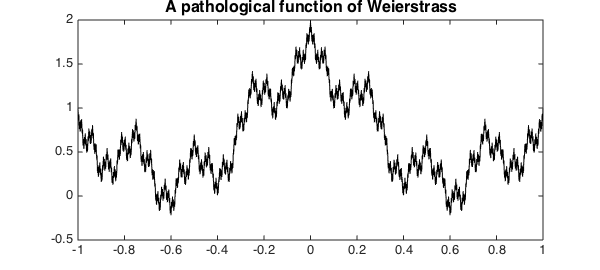
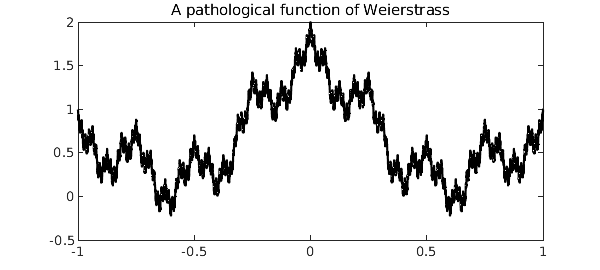
Weierstrass update

Changed region(s): [[0.09, 0.0, 0.93, 0.9481], [0.9, 0.9185, 0.93, 0.9481]]

diff --git a/examples/approx/img/WeierstrassFunction.html b/examples/approx/img/WeierstrassFunction.html
@@ -5,7 +5,7 @@ authordate: "Hrothgar, October 2013"
 meta: "(Chebfun example approx/WeierstrassFunction.m) [Tags: #Weierstrass, #approximation, #infinite series]"
 ---
 
-<pre class="mcode-input">LW = 'linewidth'; FS = 'fontsize'; format compact</pre>In the late nineteenth century, Karl Weierstrass rocked the analysis community when he constructed an example of a function that is everywhere continuous but nowhere differentiable. His now eponymous function, also one of the first appearances of fractal geometry, is defined as the sum $$ \sum_{k=0}^{\infty} a^k \cos(b^k \pi x), $$ where $0 &lt; a &lt; 1$ and $b$ is a positive odd integer with $ab &lt; 1 + \frac32 \pi$. Since its publication, Weierstrass' work has been generalized in many directions.
+<pre class="mcode-input">format compact</pre>In the late nineteenth century, Karl Weierstrass rocked the analysis community when he constructed an example of a function that is everywhere continuous but nowhere differentiable. His now eponymous function, also one of the first appearances of fractal geometry, is defined as the sum $$ \sum_{k=0}^{\infty} a^k \cos(b^k \pi x), $$ where $0 &lt; a &lt; 1$ and $b$ is a positive odd integer with $ab &lt; 1 + \frac32 \pi$. Since its publication, Weierstrass's work has been generalized in many directions.
 
 Chebfun is designed for work with functions with a bit of smoothness, but in this example we will see how Chebfun fares against a pathological function lying on the edge of discontinuity.
 
@@ -15,16 +15,15 @@ Let us consider the Weierstrass-type function $$ F(x) = \sum_{k=0}^{\infty} 2^{-
 F{1} = chebfun(f_k(0));
 for k = 1:8,
     F{k+1} = F{k} + chebfun(f_k(k));
-end</pre><pre class="mcode-output">Warning: Function not resolved using 65537 pts. Have you tried 'splitting on'? 
-</pre>Here is what the unresolved ninth iterate looks like.
+end</pre>Here is what the unresolved ninth iterate looks like.
 
-<pre class="mcode-input">plot(F{9}, 'k-', LW, 1)
-title('A pathological function of Weierstrass', FS, 16)</pre><img src="img/WeierstrassFunction_01.png" class="figure" alt="">
+<pre class="mcode-input">plot(F{9}, 'k')
+title('A pathological function of Weierstrass')</pre><img src="img/WeierstrassFunction_01.png" class="figure" alt="">
 
 We must zoom in 400 times to see that Chebfun is in fact plotting a smooth function.
 
-<pre class="mcode-input">plot(F{9}, 'k-', 'interval', [0 0.005], LW, 1)
-title('Close-up of Weierstrass approximant', FS, 16)</pre><img src="img/WeierstrassFunction_02.png" class="figure" alt="">
+<pre class="mcode-input">plot(F{9}, 'k', 'interval', [0 0.005])
+title('Close-up of Weierstrass approximant')</pre><img src="img/WeierstrassFunction_02.png" class="figure" alt="">
 
 The function $F(x)$ is not differentiable, but it is integrable. For this particular Weierstrass function, the exact value of the integral can be found easily. We begin with
 
@@ -43,7 +42,7 @@ However, $\sin( \frac{\pi}{2} 4^k ) = 0$ for all $k &gt; 0$, so the sum is equal
 Let's check our answer against Chebfun's.
 
 <pre class="mcode-input">error = sum(F{9}) - 4/pi</pre><pre class="mcode-output">error =
-     3.330669073875470e-15
+     1.998401444325282e-15
 </pre>A more difficult problem is to find the global minimum of $F(x)$ on the interval $[-1, 1]$. Even if it were possible to differentiate $F$ to find where $F'(x) = 0$, we would discover infinitely many local extrema. Of course, Chebfun's representation of $F$ is a polynomial approximant, so we can locate the roots of the derivative for any iterate. As we may expect, performance rapidly gets worse as we take more terms.
 
 <pre class="mcode-input">tt = []; xx = []; mm = [];
@@ -58,10 +57,10 @@ str = [sprintf('%2s %11s %16s %19s\n', 'k', 'x_min', 'F_k(x_min)', 'computation 
        sprintf('%2d %12.7f %+15.7f %11.2f sec\n', [(2:2:8); xx; mm; tt])];
 disp(str)</pre><pre class="mcode-output"> k       x_min       F_k(x_min)    computation time
 ----------------------------------------------------
- 2   -1.0000000      +0.0000000        0.10 sec
- 4   -0.6196232      -0.0504416        0.06 sec
- 6    0.6010220      -0.1761766        0.05 sec
- 8   -0.6000610      -0.2098447        1.91 sec
+ 2   -1.0000000      +0.0000000        0.02 sec
+ 4   -0.6196232      -0.0504416        0.02 sec
+ 6   -0.6010220      -0.1761766        0.03 sec
+ 8    0.6000610      -0.2098447        0.41 sec
 
 </pre>Chebfun is slowly converging to the actual solution given by $F_{min} = \sin(\frac{\pi}{5}) - \cos(\frac{\pi}{5}) = -0.2212317420...$ at the points $x = \pm \frac35$. Chebfun's difficulty is not with accurately locating the minima: the `x_min` iterates are geometrically converging to the correct solution as they should. The problem is that the iterates' global minima so slowly converge to the global minimum of $F$ while Chebfun must deal with polynomials of geometrically increasing degree.
 
@@ -73,5 +72,5 @@ disp(str)</pre><pre class="mcode-output"> k       x_min       F_k(x_min)    comp
 
 2. G. H. Hardy, "Weierstrass's non-differentiable function."    _Transactions of the American Mathematical Society_, 17, no. 3 (1916), 301-325.
 
-3. L. N. Trefethen, _Approximation theory and approximation practice_. SIAM, 2013.
+3. L. N. Trefethen, _Approximation Theory and Approximation Practice, Extended Edition_, SIAM, 2019._
 

diff --git a/examples/approx/WeierstrassFunction.html b/examples/approx/WeierstrassFunction.html
@@ -61,9 +61,9 @@
     <div class="container">
 <div class="row main">
 <div id='content' class="col-sm-12 example" role="main">
-<pre class="mcode-input">LW = 'linewidth'; FS = 'fontsize'; format compact</pre>
+<pre class="mcode-input">format compact</pre>
 
-<p>In the late nineteenth century, Karl Weierstrass rocked the analysis community when he constructed an example of a function that is everywhere continuous but nowhere differentiable. His now eponymous function, also one of the first appearances of fractal geometry, is defined as the sum $$ \sum_{k=0}^{\infty} a^k \cos(b^k \pi x), $$ where $0 &lt; a &lt; 1$ and $b$ is a positive odd integer with $ab &lt; 1 + \frac32 \pi$. Since its publication, Weierstrass' work has been generalized in many directions.</p>
+<p>In the late nineteenth century, Karl Weierstrass rocked the analysis community when he constructed an example of a function that is everywhere continuous but nowhere differentiable. His now eponymous function, also one of the first appearances of fractal geometry, is defined as the sum $$ \sum_{k=0}^{\infty} a^k \cos(b^k \pi x), $$ where $0 &lt; a &lt; 1$ and $b$ is a positive odd integer with $ab &lt; 1 + \frac32 \pi$. Since its publication, Weierstrass's work has been generalized in many directions.</p>
 <p>Chebfun is designed for work with functions with a bit of smoothness, but in this example we will see how Chebfun fares against a pathological function lying on the edge of discontinuity.</p>
 <p>Let us consider the Weierstrass-type function $$ F(x) = \sum_{k=0}^{\infty} 2^{-k} \cos\left( \frac{\pi}{2} 4^k x \right) $$ on the interval $[-1, 1]$. With its default parameter settings, Chebfun resolves the first eight iterates to machine precision, but not the ninth.</p>
 <pre class="mcode-input">f_k = @(k) @(x) 2^-k * cos(pi/2*x*4^k);
@@ -72,17 +72,14 @@ for k = 1:8,
     F{k+1} = F{k} + chebfun(f_k(k));
 end</pre>
 
-<pre class="mcode-output">Warning: Function not resolved using 65537 pts. Have you tried 'splitting on'? 
-</pre>
-
 <p>Here is what the unresolved ninth iterate looks like.</p>
-<pre class="mcode-input">plot(F{9}, 'k-', LW, 1)
-title('A pathological function of Weierstrass', FS, 16)</pre>
+<pre class="mcode-input">plot(F{9}, 'k')
+title('A pathological function of Weierstrass')</pre>
 
 <p><img src="img/WeierstrassFunction_01.png" class="figure" alt=""></p>
 <p>We must zoom in 400 times to see that Chebfun is in fact plotting a smooth function.</p>
-<pre class="mcode-input">plot(F{9}, 'k-', 'interval', [0 0.005], LW, 1)
-title('Close-up of Weierstrass approximant', FS, 16)</pre>
+<pre class="mcode-input">plot(F{9}, 'k', 'interval', [0 0.005])
+title('Close-up of Weierstrass approximant')</pre>
 
 <p><img src="img/WeierstrassFunction_02.png" class="figure" alt=""></p>
 <p>The function $F(x)$ is not differentiable, but it is integrable. For this particular Weierstrass function, the exact value of the integral can be found easily. We begin with</p>
@@ -98,7 +95,7 @@ title('Close-up of Weierstrass approximant', FS, 16)</pre>
 <pre class="mcode-input">error = sum(F{9}) - 4/pi</pre>
 
 <pre class="mcode-output">error =
-     3.330669073875470e-15
+     1.998401444325282e-15
 </pre>
 
 <p>A more difficult problem is to find the global minimum of $F(x)$ on the interval $[-1, 1]$. Even if it were possible to differentiate $F$ to find where $F'(x) = 0$, we would discover infinitely many local extrema. Of course, Chebfun's representation of $F$ is a polynomial approximant, so we can locate the roots of the derivative for any iterate. As we may expect, performance rapidly gets worse as we take more terms.</p>
@@ -116,10 +113,10 @@ disp(str)</pre>
 
 <pre class="mcode-output"> k       x_min       F_k(x_min)    computation time
 ----------------------------------------------------
- 2   -1.0000000      +0.0000000        0.10 sec
- 4   -0.6196232      -0.0504416        0.06 sec
- 6    0.6010220      -0.1761766        0.05 sec
- 8   -0.6000610      -0.2098447        1.91 sec
+ 2   -1.0000000      +0.0000000        0.02 sec
+ 4   -0.6196232      -0.0504416        0.02 sec
+ 6   -0.6010220      -0.1761766        0.03 sec
+ 8    0.6000610      -0.2098447        0.41 sec
 
 </pre>
 
@@ -133,7 +130,7 @@ disp(str)</pre>
 <p>G. H. Hardy, "Weierstrass's non-differentiable function."    <em>Transactions of the American Mathematical Society</em>, 17, no. 3 (1916), 301-325.</p>
 </li>
 <li>
-<p>L. N. Trefethen, <em>Approximation theory and approximation practice</em>. SIAM, 2013.</p>
+<p>L. N. Trefethen, <em>Approximation Theory and Approximation Practice, Extended Edition</em>, SIAM, 2019._</p>
 </li>
 </ol></div>
         </div>

diff --git a/index.html b/index.html
@@ -269,5 +269,5 @@ plot(minx(1),minx(2),'.w')
     <script type="text/javascript" src="/js/config.js"></script>
     <script type="text/javascript" src="/js/jquery.flexslider-min.js"></script>
   </body>
-<!-- Compiled on Thursday, 15 April 2021 at 11:43. -->
+<!-- Compiled on Thursday, 15 April 2021 at 11:52. -->
 </html>

diff --git a/examples/approx/WeierstrassFunction.m b/examples/approx/WeierstrassFunction.m
@@ -6,8 +6,7 @@
 % [Tags: #Weierstrass, #approximation, #infinite series]
 
 %%
-% 
-LW = 'linewidth'; FS = 'fontsize'; format compact
+format compact
 
 %%
 % In the late nineteenth century, Karl Weierstrass rocked the analysis community
@@ -16,7 +15,7 @@ LW = 'linewidth'; FS = 'fontsize'; format compact
 % appearances of fractal geometry, is defined as the sum
 % $$ \sum_{k=0}^{\infty} a^k \cos(b^k \pi x), $$
 % where $0 < a < 1$ and $b$ is a positive odd integer with $ab < 1 + \frac32
-% \pi$. Since its publication, Weierstrass' work has been generalized in many
+% \pi$. Since its publication, Weierstrass's work has been generalized in many
 % directions.
 
 %%
@@ -38,14 +37,14 @@ end
 
 %%
 % Here is what the unresolved ninth iterate looks like.
-plot(F{9}, 'k-', LW, 1)
-title('A pathological function of Weierstrass', FS, 16)
+plot(F{9}, 'k')
+title('A pathological function of Weierstrass')
 
 %%
 % We must zoom in 400 times to see that Chebfun is in fact plotting a
 % smooth function.
-plot(F{9}, 'k-', 'interval', [0 0.005], LW, 1)
-title('Close-up of Weierstrass approximant', FS, 16)
+plot(F{9}, 'k', 'interval', [0 0.005])
+title('Close-up of Weierstrass approximant')
 
 %%
 % The function $F(x)$ is not differentiable, but it is integrable. For this
@@ -107,4 +106,5 @@ disp(str)
 % 2. G. H. Hardy, "Weierstrass's non-differentiable function."
 %    _Transactions of the American Mathematical Society_, 17, no. 3 (1916), 301-325.
 %
-% 3. L. N. Trefethen, _Approximation theory and approximation practice_. SIAM, 2013.
+% 3. L. N. Trefethen, _Approximation Theory and Approximation Practice, 
+% Extended Edition_, SIAM, 2019._
